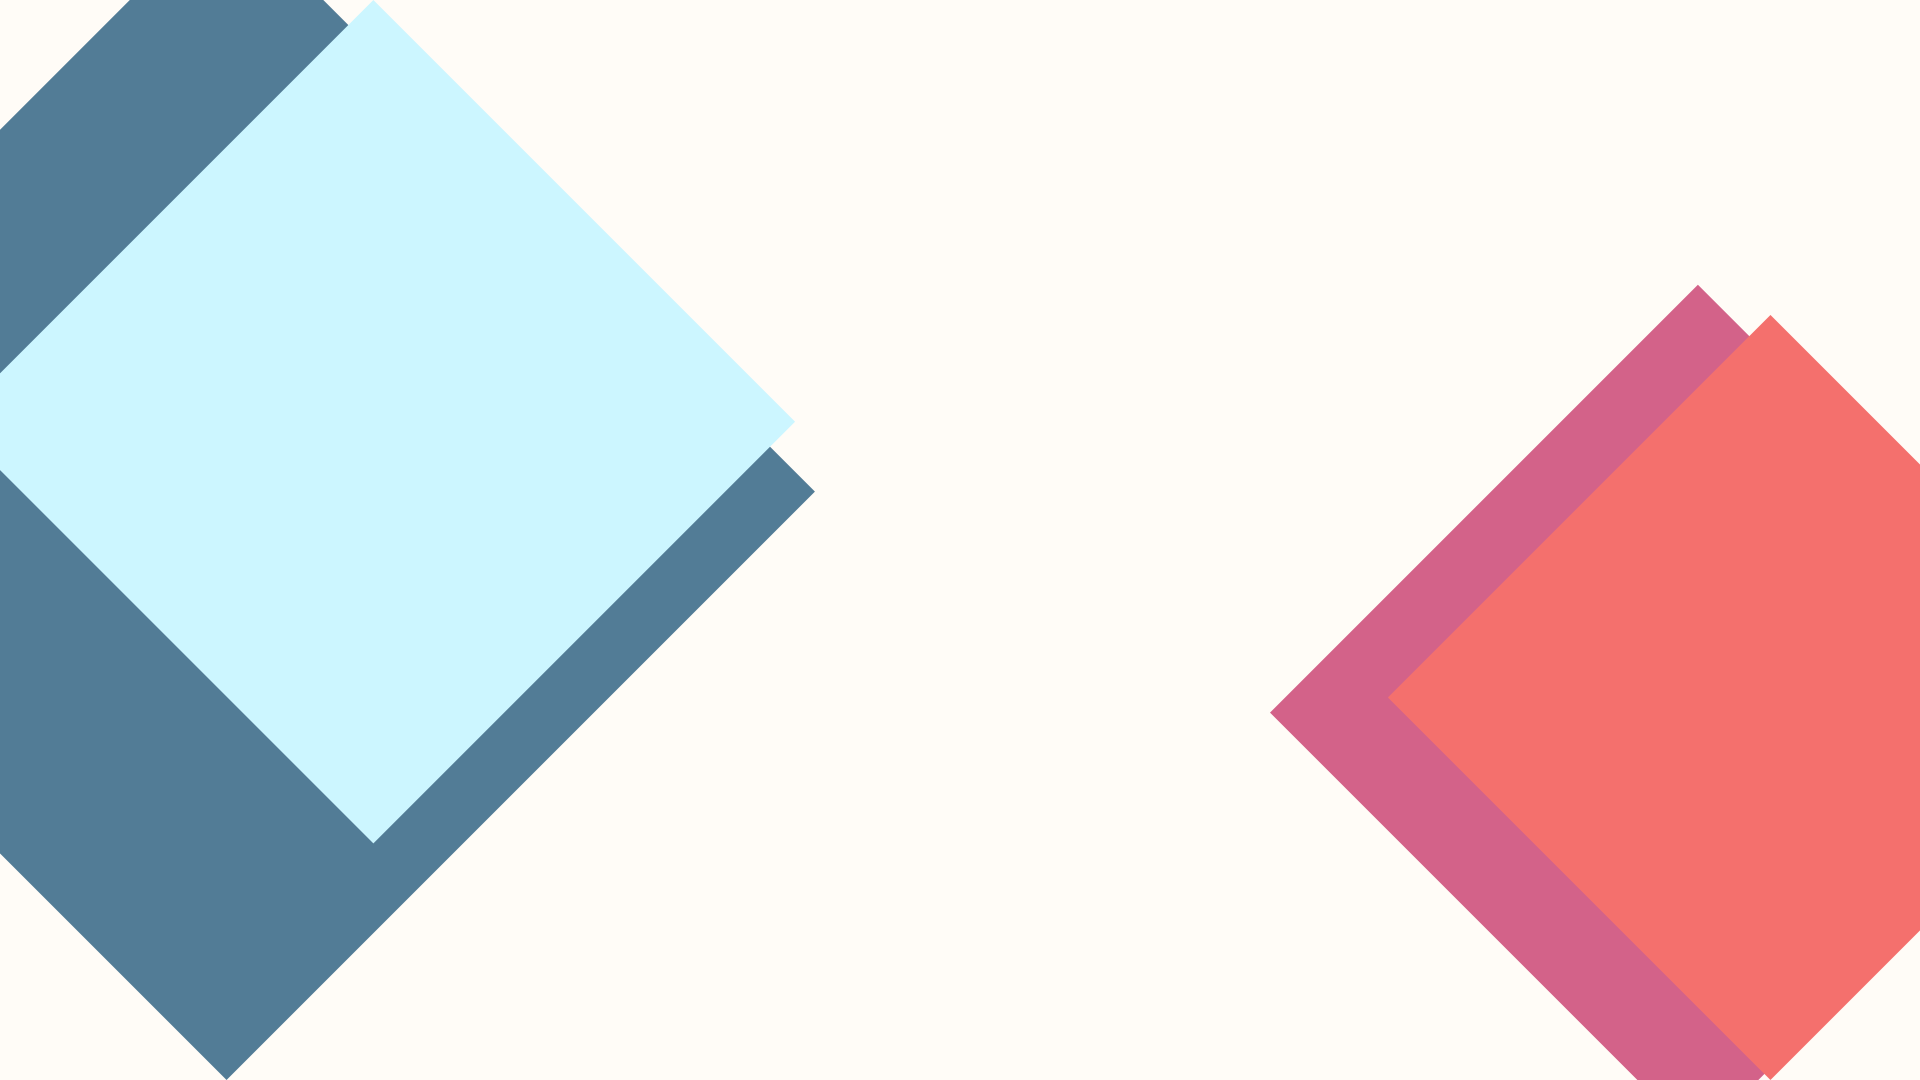
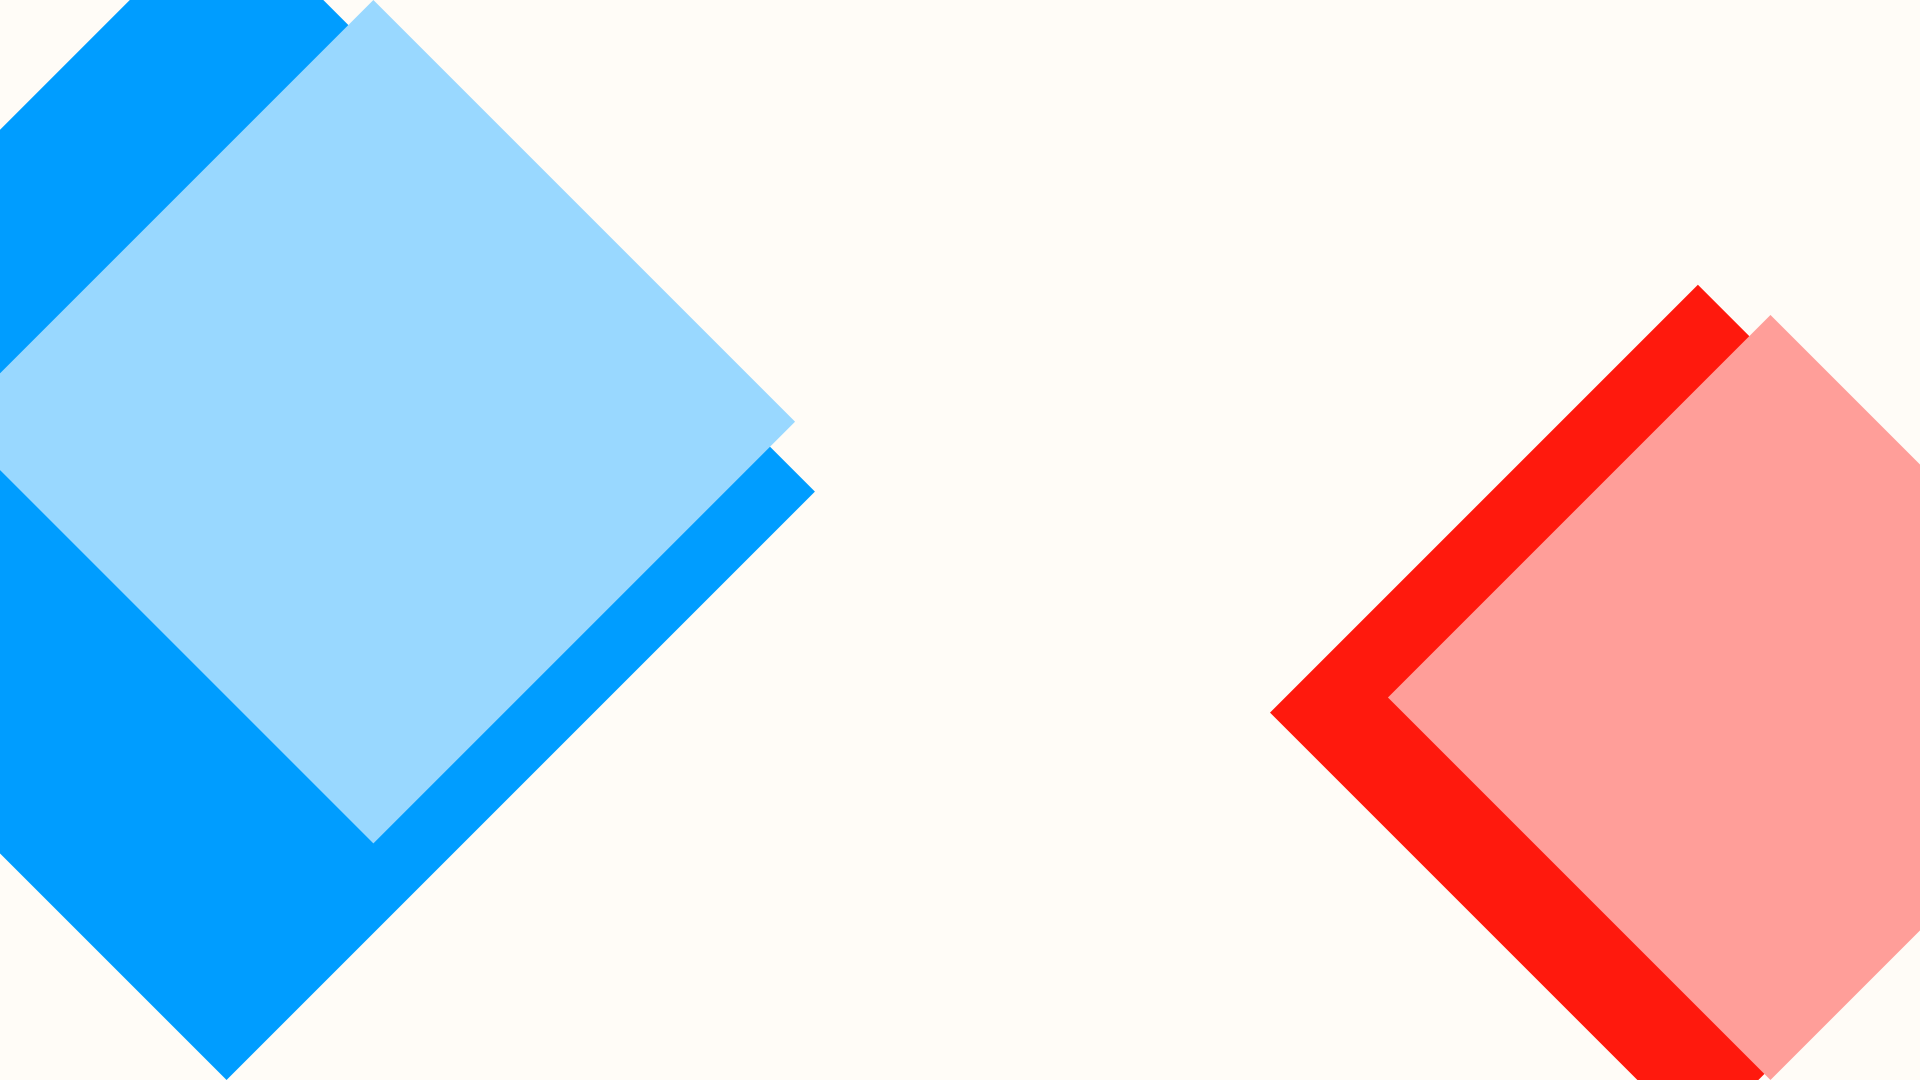
Continue to improve styling

diff --git a/_sass/abstracts/_functions.scss b/_sass/abstracts/_functions.scss
@@ -1,22 +1,17 @@
-/// Responsive breakpoint manager
+/// Slightly lighten a color
 /// @access public
-/// @param {String} $breakpoint - Breakpoint
-/// @requires $breakpoints
-@mixin respond-to($breakpoint) {
-    $raw-query: map-get($breakpoints, $breakpoint);
+/// @param {Color} $color - color to tint
+/// @param {Number} $percentage - percentage of `$color` in returned color
+/// @return {Color}
+@function tint($color, $percentage) {
+    @return mix(white, $color, $percentage);
+}
 
-    @if $raw-query {
-        $query: if(
-        type-of($raw-query) == 'string',
-        unquote($raw-query),
-        inspect($raw-query)
-        );
-
-        @media #{$query} {
-        @content;
-        }
-    } @else {
-        @error 'No value found for `#{$breakpoint}`. '
-            + 'Please make sure it is defined in `$breakpoints` map.';
-    }
+/// Slightly darken a color
+/// @access public
+/// @param {Color} $color - color to shade
+/// @param {Number} $percentage - percentage of `$color` in returned color
+/// @return {Color}
+@function shade($color, $percentage) {
+  @return mix(black, $color, $percentage);
 }

diff --git a/_sass/theme/_theme.scss b/_sass/theme/_theme.scss
@@ -1,7 +1,21 @@
-$beyondrisc-light-red: hsl(1, 86%, 69%);
-$beyondrisc-light-blue: hsl(191, 100%, 90%);
+// $beyondrisc-light-red: hsl(1, 86%, 69%);
+// $beyondrisc-light-blue: hsl(191, 100%, 90%);
+// $beyondrisc-blue: hsl(203, 29%, 45%);
 $dark-grey: hsl(209, 11%, 37%);
-$light-blue-gray: hsl(218, 41%, 74%);
+//$light-blue-grey: hsl(218, 41%, 74%);
+$light-grey: hsl(0, 0%, 93%);
+
+$beyondrisc-blue: hsl(203, 100%, 50%);
+//$light-blue: hsl(203, 100%, 80%);
+$beyondrisc-red: hsl(3, 100%, 53%);
+//$light-red: hsl(3, 100%, 80%);
+
+$primary-colour: $beyondrisc-blue;
+$primary-colour-light: tint($primary-colour, 50%);
+$secondary-colour: $beyondrisc-red;
+$secondary-colour-light: tint($secondary-colour, 50%);
+$neutral-colour: $dark-grey;
+$neutral-colour-light: $light-grey;
 
 $link-colour: $dark-grey;
 

diff --git a/_sass/abstracts/_mixins.scss b/_sass/abstracts/_mixins.scss
@@ -1,0 +1,22 @@
+/// Responsive breakpoint manager
+/// @access public
+/// @param {String} $breakpoint - Breakpoint
+/// @requires $breakpoints
+@mixin respond-to($breakpoint) {
+    $raw-query: map-get($breakpoints, $breakpoint);
+
+    @if $raw-query {
+        $query: if(
+        type-of($raw-query) == 'string',
+        unquote($raw-query),
+        inspect($raw-query)
+        );
+
+        @media #{$query} {
+        @content;
+        }
+    } @else {
+        @error 'No value found for `#{$breakpoint}`. '
+            + 'Please make sure it is defined in `$breakpoints` map.';
+    }
+}

diff --git a/_sass/components/_blog-post-summary.scss b/_sass/components/_blog-post-summary.scss
@@ -16,8 +16,9 @@
         max-width: 100%;
 
         background: hsl(0, 0%, 100%);
-        box-shadow: 0px 0px 2px -1px hsla(0, 0%, 0%, 0.2);
+        box-shadow: 0px 0px 5px -1px hsla(0, 0%, 0%, 0.3);
         padding: 1rem;
+        margin-bottom: 1rem;
     }
 
     &__content {
@@ -25,7 +26,7 @@
         min-width: 0;
 
         background: hsl(0, 0%, 100%);
-        box-shadow: 0px 0px 2px -1px hsla(0, 0%, 0%, 0.2);
+        box-shadow: 0px 0px 5px -1px hsla(0, 0%, 0%, 0.3);
         padding: 1rem;
     }
 }

diff --git a/_sass/components/_blog-post-featured.scss b/_sass/components/_blog-post-featured.scss
@@ -10,7 +10,7 @@
         min-width: 0;
 
         background: hsl(0, 0%, 100%);
-        box-shadow: 0px 0px 2px -1px hsla(0, 0%, 0%, 0.2);
+        box-shadow: 0px 0px 5px -1px hsla(0, 0%, 0%, 0.3);
         padding: 1rem;
         margin: 1rem;
     }
@@ -21,7 +21,7 @@
         min-width: 0;
 
         background: hsl(0, 0%, 100%);
-        box-shadow: 0px 0px 2px -1px hsla(0, 0%, 0%, 0.2);
+        box-shadow: 0px 0px 5px -1px hsla(0, 0%, 0%, 0.3);
         padding: 1rem;
         margin: 1rem;
     }

diff --git a/_sass/components/_footer-nav.scss b/_sass/components/_footer-nav.scss
@@ -1,9 +1,10 @@
-$footer-text-colour: $light-blue-gray;
-$footer-link-colour: $dark-grey;
-$footer-header-colour: $dark-grey;
+$footer-text-colour: $primary-colour-light;
+$footer-link-colour: $neutral-colour;
+$footer-header-colour: $neutral-colour;
+$footer-background: $neutral-colour-light;
 
 .footer-nav {
-    background-color: hsl(0, 0%, 93%);
+    background-color: $footer-background;
     color: $footer-text-colour;
     font-size: 1.2rem;
 

diff --git a/_sass/components/_footer-info.scss b/_sass/components/_footer-info.scss
@@ -4,7 +4,7 @@
 }
 
 .footer-info__copyright {
-    background-color: hsl(203, 29%, 45%);
-    color: hsl(191, 100%, 90%);
+    background-color: $primary-colour;
+    color: tint($primary-colour, 80);
     padding: 0.5rem 1rem;
 }

diff --git a/_sass/layout/_footer.scss b/_sass/layout/_footer.scss
@@ -33,5 +33,9 @@
 }
 
 .footer-nav > *:first-child {
-    margin-left: 12%;
+    margin-left: 1rem;    
+    
+    @include respond-to('large') {
+        margin-left: 12%;
+    }
 }

diff --git a/assets/css/styles.scss b/assets/css/styles.scss
@@ -1,6 +1,9 @@
 ---
 ---
 
+@import 'abstracts/functions';
+@import 'abstracts/mixins';
+
 @import 'vendor/bootstrap-reboot';
 
 @import 'base/typography';

diff --git a/_sass/components/_main-menu.scss b/_sass/components/_main-menu.scss
@@ -29,4 +29,8 @@
     font-size: 1.2rem;
     font-weight: bold;
     padding: 0.3rem 0;
+
+    a {
+        color: $secondary-colour;
+    }
 }
